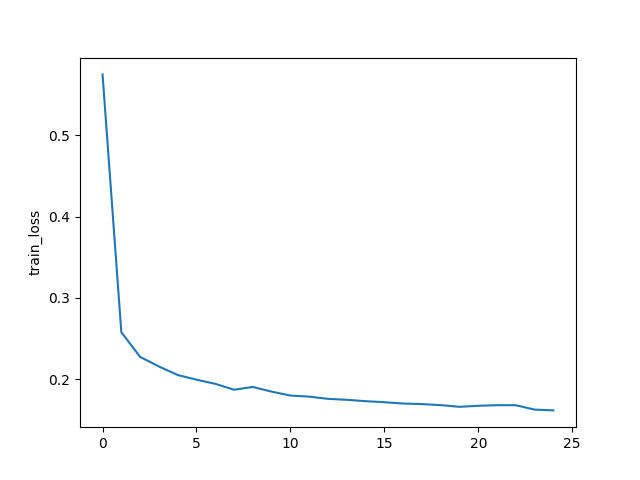
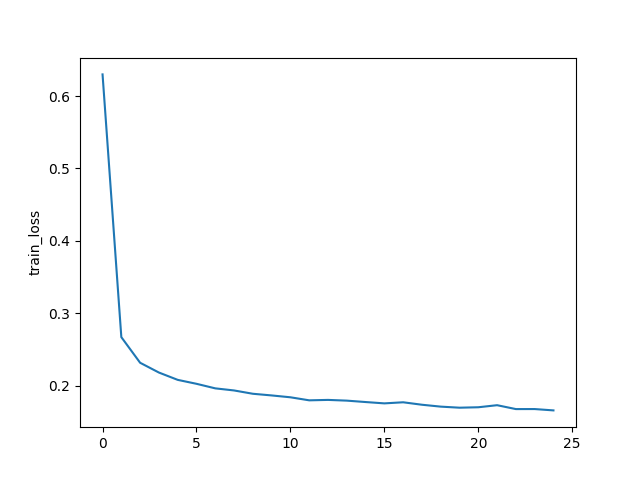
Add FMNIST

diff --git a/main_fed.py b/main_fed.py
@@ -17,7 +17,7 @@ from models.Nets import ClientModelmnist, ServerModelmnist, VHFLGroup
 from models.Fed import FedAvg
 from models.test import test_img
 # from efficientnet_pytorch import EfficientNet
-from data.mnistVFL import mnistVFL
+from data.imageVFL import imageVFL
 
 if __name__ == '__main__':
     # parse args
@@ -29,49 +29,55 @@ if __name__ == '__main__':
         trans_mnist = transforms.Compose([transforms.ToTensor(), transforms.Normalize((0.1307,), (0.3081,))])
         dataset_train = datasets.MNIST('../data/mnist/', train=True, download=True, transform=trans_mnist)
         dataset_test = datasets.MNIST('../data/mnist/', train=False, download=True, transform=trans_mnist)
-
+    elif args.dataset == 'fmnist':
+        trans_mnist = transforms.Compose([transforms.ToTensor(), transforms.Normalize((0.1307,), (0.3081,))])
+        dataset_train = datasets.FashionMNIST('../data/fmnist/', train=True, download=True, transform=trans_mnist)
+        dataset_test = datasets.FashionMNIST('../data/fmnist/', train=False, download=True, transform=trans_mnist)
+    else:
+        print("jaja")
+        exit('Error: unrecognized dataset')
         
-        # dataset_train = split_VFL_data
-        img, label, _ = split_VFL_data(dataset_train)
+    # dataset_train = split_VFL_data
+    img, label, _ = split_VFL_data(dataset_train)
         
-        img_1 = torch.cat(img[0])  # get the first split of the data
-        img_2 = torch.cat(img[1])  # get the second split of the data
+    img_1 = torch.cat(img[0])  # get the first split of the data
+    img_2 = torch.cat(img[1])  # get the second split of the data
 
-        img_1 = img_1.view(img_1.shape[0], -1)
-        img_2 = img_2.view(img_2.shape[0], -1)
+    img_1 = img_1.view(img_1.shape[0], -1)
+    img_2 = img_2.view(img_2.shape[0], -1)
 
 
 
-        # First 40000 images, HFL & non iid, 4 clients
-        dataset_train_HFL_1 = img_1[:40000]
-        dataset_train_HFL_2 = img_2[:40000]
-        label_HFL = label[:40000]
-        # Create dataset
+    # First 40000 images, HFL & non iid, 4 clients
+    dataset_train_HFL_1 = img_1[:40000]
+    dataset_train_HFL_2 = img_2[:40000]
+    label_HFL = label[:40000]
+    # Create dataset
 
-        dataset_train_HFL = mnistVFL(dataset_train_HFL_1, dataset_train_HFL_2, label_HFL)
-        dict_users_HFL = mnist_noniid(dataset_train_HFL, 4)
+    dataset_train_HFL = imageVFL(dataset_train_HFL_1, dataset_train_HFL_2, label_HFL)
+    dict_users_HFL = mnist_noniid(dataset_train_HFL, 4)
 
-        # Last 20000 images, VFL, 2 GROUPS of clients, iid
-        dataset_train_VFL_1 = img_1[40000:]
-        dataset_train_VFL_2 = img_2[40000:]
-        label_VFL = label[40000:]
-        dataset_train_VFL = mnistVFL(dataset_train_VFL_1, dataset_train_VFL_2, label_VFL)
-        dict_users_VFL = mnist_iid(dataset_train_VFL, 2)
+    # Last 20000 images, VFL, 2 GROUPS of clients, iid
+    dataset_train_VFL_1 = img_1[40000:]
+    dataset_train_VFL_2 = img_2[40000:]
+    label_VFL = label[40000:]
+    dataset_train_VFL = imageVFL(dataset_train_VFL_1, dataset_train_VFL_2, label_VFL)
+    dict_users_VFL = mnist_iid(dataset_train_VFL, 2)
         
 
 
-        img_test, label_test, _ = split_VFL_data(dataset_test)
-        img_test_1 = torch.cat(img_test[0])  # get the first split of the data
-        img_test_2 = torch.cat(img_test[1])  # get the second split of the data
-        img_test_1 = img_test_1.view(img_test_1.shape[0], -1)
-        img_test_2 = img_test_2.view(img_test_2.shape[0], -1)
-        dataset_test = mnistVFL(img_test_1, img_test_2, label_test)
+    img_test, label_test, _ = split_VFL_data(dataset_test)
+    img_test_1 = torch.cat(img_test[0])  # get the first split of the data
+    img_test_2 = torch.cat(img_test[1])  # get the second split of the data
+    img_test_1 = img_test_1.view(img_test_1.shape[0], -1)
+    img_test_2 = img_test_2.view(img_test_2.shape[0], -1)
+    dataset_test = imageVFL(img_test_1, img_test_2, label_test)
 
 
 
-        # print(len(dataset_train_HFL))
-        # print(len(dataset_train_VFL))
-        # print(len(dataset_test))
+    # print(len(dataset_train_HFL))
+    # print(len(dataset_train_VFL))
+    # print(len(dataset_test))
 
 
 
@@ -110,8 +116,7 @@ if __name__ == '__main__':
 
 
 
-    else:
-        exit('Error: unrecognized dataset')
+    
     # img_size = dataset_train[0][0].shape
 
     # build model

diff --git a/data/imageVFL.py b/data/imageVFL.py
@@ -2,7 +2,7 @@ import torch
 from torchvision import transforms
 from torch.utils.data import Dataset, DataLoader
 
-class mnistVFL(Dataset):
+class imageVFL(Dataset):
 
     def __init__(self, img1, img2, label):
         self.data = torch.stack((img1, img2), dim=1)
